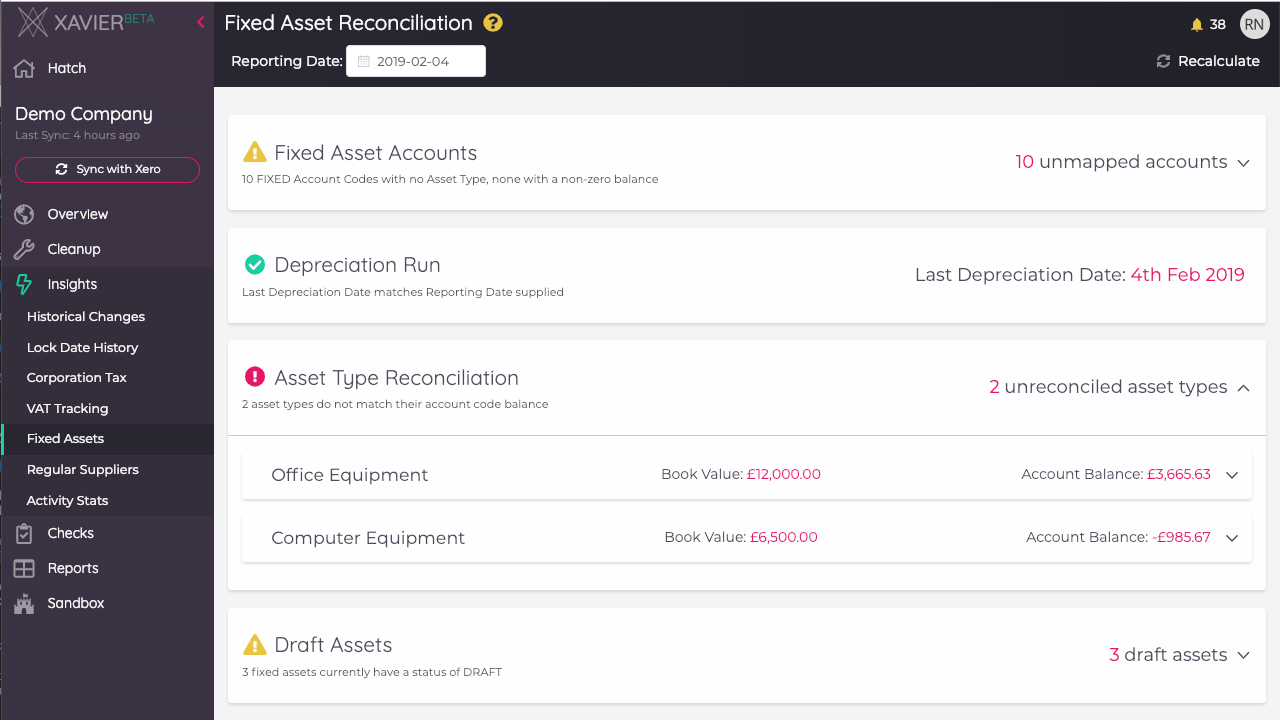
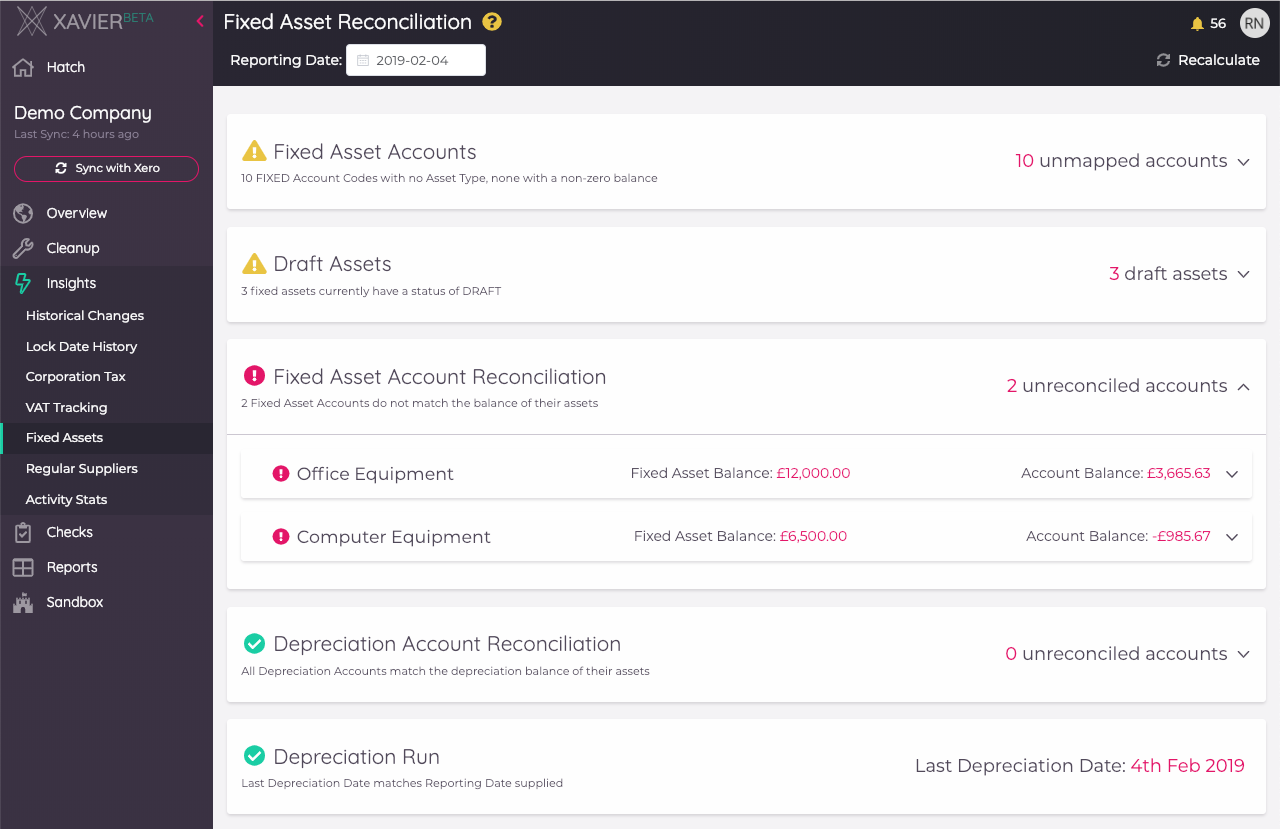
Update Fixed Assets documentation to use new logic

diff --git a/insights.md b/insights.md
@@ -179,18 +179,26 @@ or Accumulated Depreciation Account of at least one Asset Type to be considered 
 Xavier then checks the balance of any unmapped Accounts - if any are non-zero then this should be considered a genuine 
 issue that needs immediate attention.   
 
-### Depreciation Run
-This simple check compares the Reporting Period specified at the top of the insight with the "Last Depreciation Date" in
-the Fixed Asset Register, and shows an error if they don't match.
-
-### Asset Type Reconciliation
-This section cycles through all of the Asset Types in the register and compares their balance with the balances of their
-mapped Accounts in the general ledger, up to the Reporting Date, and highlights any that don't match. You can expand
-each Asset type to compare transaction history of the Account with the Asset Type activity.  
-
 ### Draft Assets
 Xavier searches the fixed asset register for draft assets and lists them here for convenience. This section is a good
 place to start if the asset types are not reconciling in the section above.
+
+### Fixed Asset Account Reconciliation
+This section cycles through all of the accounts in Xero's general ledger that are specified as the *Fixed Asset Account*
+in the Fixed Assets register. It  compares their balance with the combined totals of the *Purchase Price* of all assets
+associated with it, up to the Reporting Date, and highlights any that don't match. You can expand
+each Asset type to compare transaction history of the Account with the Asset activity. 
+
+### Depreciation Account Reconciliation
+Similar in logic to the Fixed Asset Account Reconciliation, this section cycles through all of the accounts in Xero's 
+general ledger that are specified as the *Accumulated Depreciation Account* in the Fixed Assets register. It  compares
+their balance with the combined totals of the "Depreciation Value" of all assets associated with it, up to the Reporting
+Date, and highlights any that don't match. The Depreciation Value is a calculation of the difference between the 
+*Purchase Price* and *Accounting Book Value* of an asset.  
+
+### Depreciation Run
+This simple check compares the Reporting Period specified at the top of the insight with the "Last Depreciation Date" in
+the Fixed Asset Register, and shows an error if they don't match.
 
 
 ## Activity Stats
